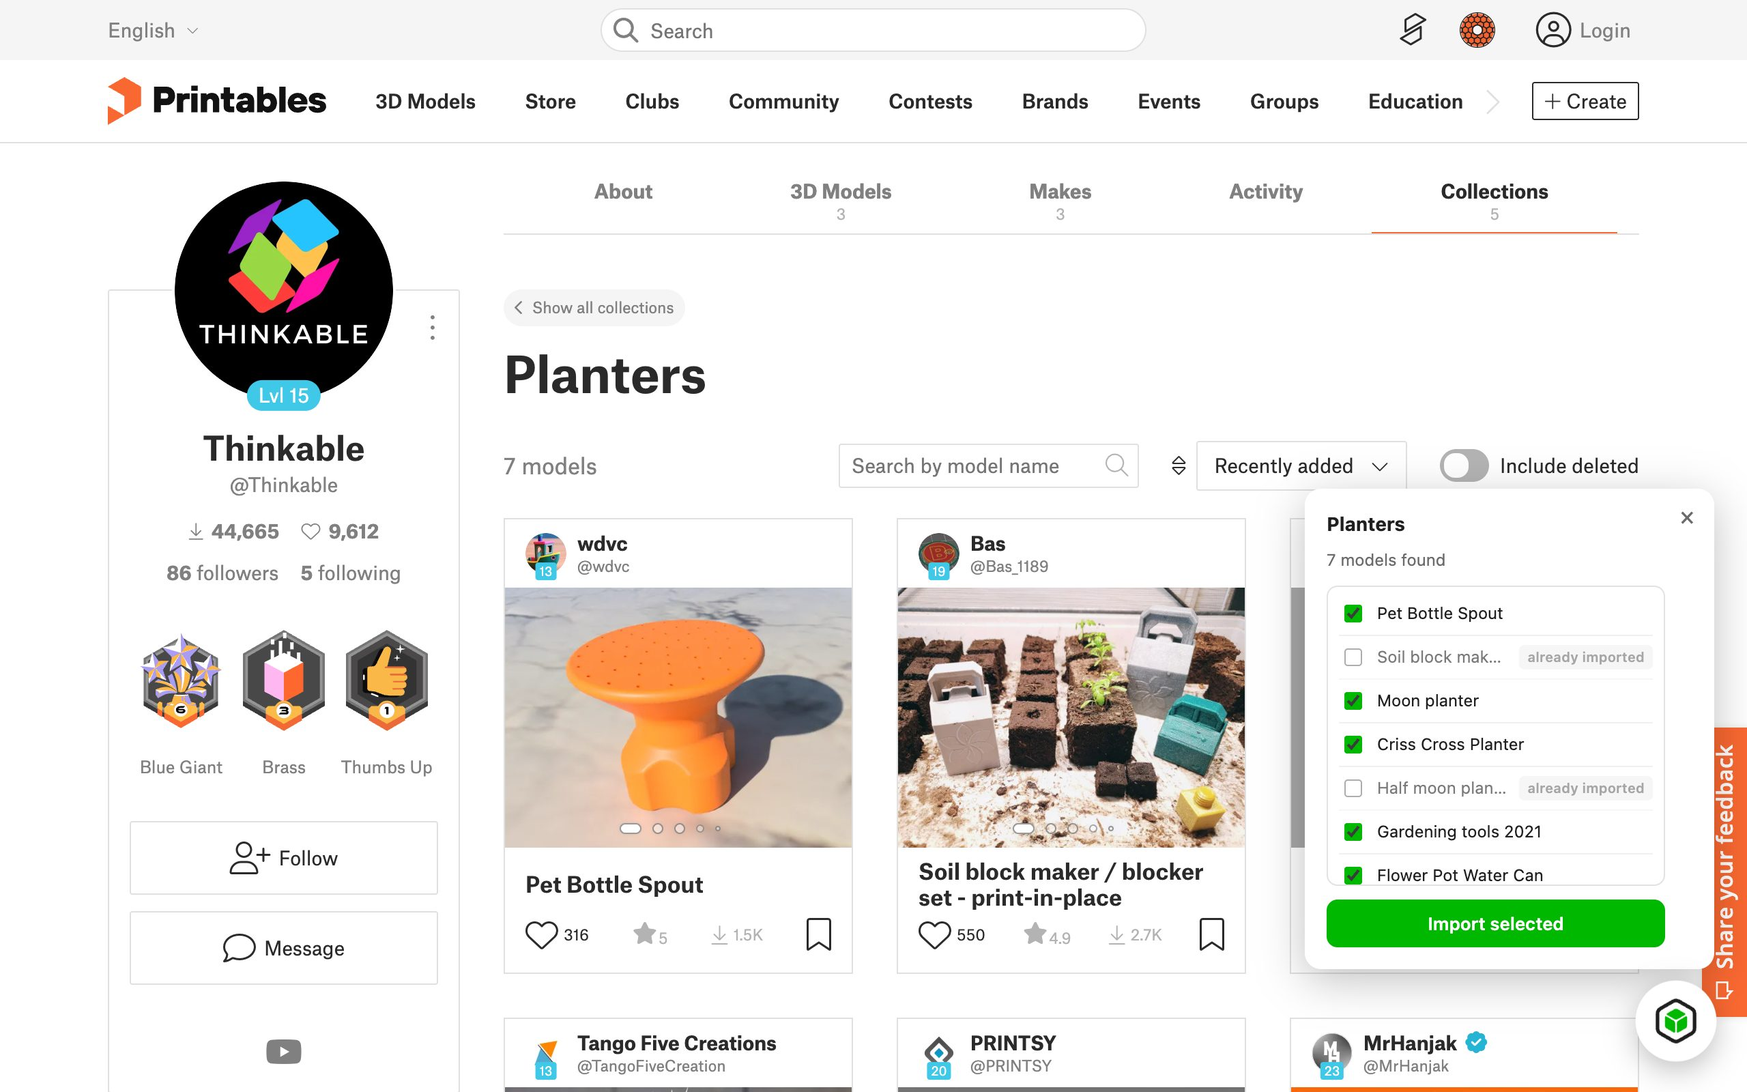
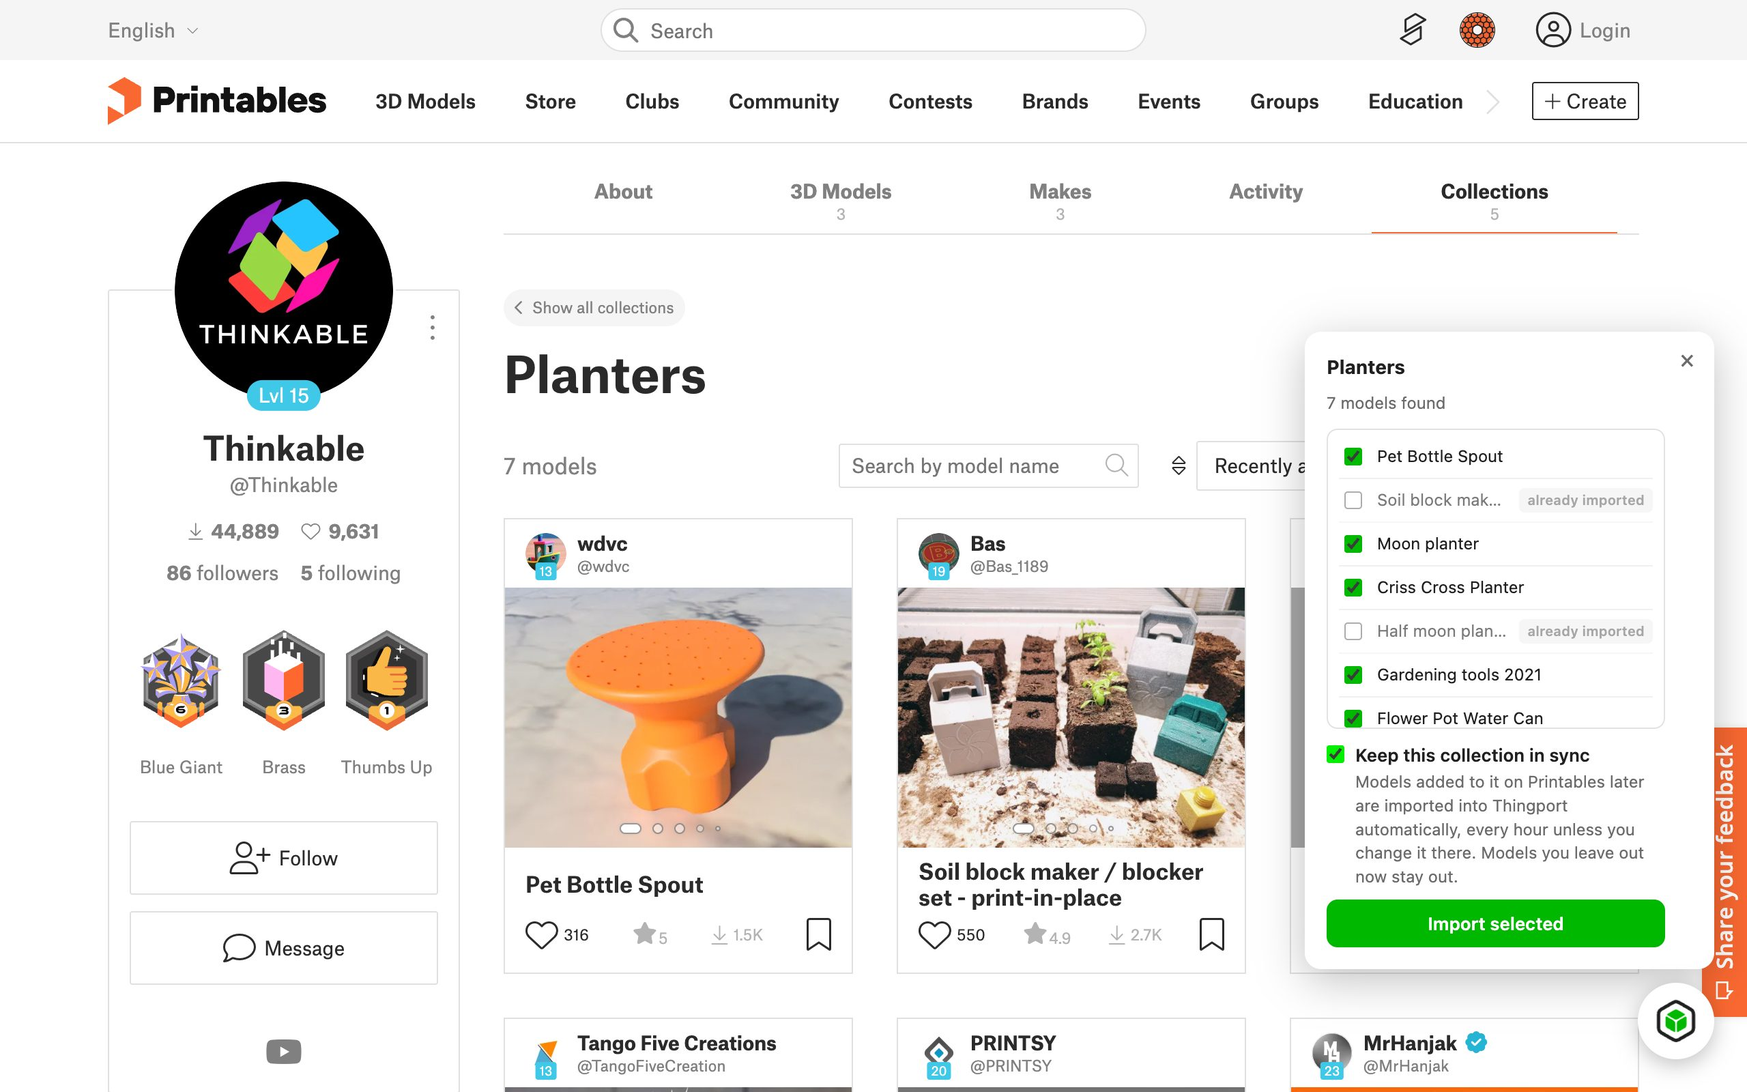
docs: add synced collections guide and showcase

diff --git a/extension/scripts/screenshots.ts b/extension/scripts/screenshots.ts
@@ -9,7 +9,8 @@
 //   npm run screenshots -- --makerworld=https://makerworld.com/en/models/123 --printables=...
 //
 // The collection shots use fixed collections, changeable with --printables-collection=<url> and
-// --makerworld-collection=<url>.
+// --makerworld-collection=<url>. --only=<names> refreshes just those shots, e.g.
+// --only=collection-printables,collection-makerworld.
 //
 // Needs Playwright's Chromium once: `npx playwright install chromium`.
 
@@ -85,6 +86,8 @@ function startMockInstance(state: MockState): Promise<{ url: string; close: () =
         return json(state.batch ?? { title: null, entries: [] });
       case "GET /api/collections":
         return json(collections);
+      case "GET /api/collection-sync":
+        return json({ supported: true, sync: null });
       case "POST /api/import":
         return json({ id: "demo-imported", title: state.inspectTitle, import_outcome: "created", thumb_url: null });
       // No slicer, so MakerWorld pages don't add their "Download normalized" button.
@@ -110,6 +113,12 @@ function argValue(name: string): string | undefined {
   return process.argv.find((arg) => arg.startsWith(prefix))?.slice(prefix.length);
 }
 
+const ONLY = argValue("only")?.split(",").filter(Boolean) ?? [];
+
+function wanted(...files: string[]): boolean {
+  return !ONLY.length || files.some((file) => ONLY.includes(file.replace(/\.\w+$/, "")));
+}
+
 async function launch(mockPort: number): Promise<{ context: BrowserContext; worker: Worker; extensionId: string }> {
   const userDataDir = path.join(os.tmpdir(), `thingport-grab-screenshots-${process.pid}`);
   const context = await chromium.launchPersistentContext(userDataDir, {
@@ -133,7 +142,10 @@ async function dismissBanners(page: Page): Promise<void> {
   const button = page
     .getByRole("button", { name: /^(accept( all)?( cookies)?|allow all|agree|i agree|got it|ok)$/i })
     .first();
-  if (await button.isVisible().catch(() => false)) await button.click({ timeout: 2000 }).catch(() => undefined);
+  // Through the DOM: Grab's own button can sit on top of it.
+  if (await button.isVisible().catch(() => false)) {
+    await button.evaluate((el) => (el as HTMLElement).click()).catch(() => undefined);
+  }
 }
 
 async function openPage(page: Page, url: string): Promise<void> {
@@ -218,6 +230,7 @@ async function screenshotPopup(
   file: string,
   colorScheme: "light" | "dark",
 ): Promise<void> {
+  if (!wanted(file)) return;
   const page = await context.newPage();
   await page.emulateMedia({ colorScheme });
   await page.setViewportSize({ width: POPUP_WIDTH, height: 600 });
@@ -228,12 +241,15 @@ async function screenshotPopup(
 }
 
 async function screenshotViewport(page: Page, file: string): Promise<void> {
+  if (!wanted(file)) return;
+  // Some cookie banners only show up after a while.
+  await dismissBanners(page);
   await page.waitForTimeout(1500);
   await page.screenshot({ path: path.join(OUT_DIR, file), type: "jpeg", quality: 82 });
 }
 
 async function main(): Promise<void> {
-  await rm(OUT_DIR, { recursive: true, force: true });
+  if (!ONLY.length) await rm(OUT_DIR, { recursive: true, force: true });
   await mkdir(OUT_DIR, { recursive: true });
   const mockState: MockState = { inspectTitle: null, batch: null };
   const instance = await startMockInstance(mockState);
@@ -245,9 +261,12 @@ async function main(): Promise<void> {
   try {
     await screenshotPopup(context, extensionId, "popup-setup.png", "light");
 
+    const modelShots =
+      wanted("setup-dialog-makerworld", "popup-connected", "popup-connected-dark") ||
+      PROVIDERS.some((p) => wanted(`panel-${p.name}`, `imported-${p.name}`));
     const models = new Map<ProviderName, ModelInfo>();
     const recentModels: ModelInfo[] = [];
-    for (const provider of PROVIDERS) {
+    for (const provider of modelShots ? PROVIDERS : []) {
       const urls = await findModelUrls(page, provider, provider.name === "thingiverse" ? 1 : 2);
       for (const url of urls) {
         await openPage(page, url);
@@ -258,10 +277,12 @@ async function main(): Promise<void> {
       }
     }
 
-    await openPage(page, models.get("makerworld")!.url);
-    await page.locator(".tg-fab--inactive").click();
-    await page.locator(".tg-modal").waitFor();
-    await screenshotViewport(page, "setup-dialog-makerworld.jpg");
+    if (wanted("setup-dialog-makerworld")) {
+      await openPage(page, models.get("makerworld")!.url);
+      await page.locator(".tg-fab--inactive").click();
+      await page.locator(".tg-modal").waitFor();
+      await screenshotViewport(page, "setup-dialog-makerworld.jpg");
+    }
 
     const recent = await Promise.all(
       recentModels.slice(0, 5).map(async (model, i) => ({
@@ -281,7 +302,8 @@ async function main(): Promise<void> {
     await screenshotPopup(context, extensionId, "popup-connected.png", "light");
     await screenshotPopup(context, extensionId, "popup-connected-dark.png", "dark");
 
-    for (const provider of PROVIDERS) {
+    for (const provider of PROVIDERS.filter((p) => models.has(p.name))) {
+      if (!wanted(`panel-${provider.name}`, `imported-${provider.name}`)) continue;
       const model = models.get(provider.name)!;
       mockState.inspectTitle = model.title;
       await openPage(page, model.url);
@@ -301,23 +323,30 @@ async function main(): Promise<void> {
       }
     }
 
-    const printablesCollection = argValue("printables-collection") ?? PRINTABLES_COLLECTION;
-    await openPage(page, printablesCollection);
-    mockState.batch = await readPrintablesCollection(page);
-    console.log(`Printables collection: ${printablesCollection} -- ${mockState.batch.entries.length} models`);
-    await page.locator(".tg-fab:not(.tg-fab--inactive)").click();
-    await page.locator('.tg-panel [data-action="import"]').waitFor({ timeout: 20000 });
-    await screenshotViewport(page, "collection-printables.jpg");
+    // The sync box is shown ticked, so the shots show what it's for.
+    if (wanted("collection-printables")) {
+      const printablesCollection = argValue("printables-collection") ?? PRINTABLES_COLLECTION;
+      await openPage(page, printablesCollection);
+      mockState.batch = await readPrintablesCollection(page);
+      console.log(`Printables collection: ${printablesCollection} -- ${mockState.batch.entries.length} models`);
+      await page.locator(".tg-fab:not(.tg-fab--inactive)").click();
+      await page.locator('.tg-panel [data-action="import"]').waitFor({ timeout: 20000 });
+      await page.locator("#tg-sync").check();
+      await screenshotViewport(page, "collection-printables.jpg");
+    }
 
     // The panel comes up once the whole collection has been scrolled through.
-    const makerworldCollection = argValue("makerworld-collection") ?? MAKERWORLD_COLLECTION;
-    await openPage(page, makerworldCollection);
-    console.log(`MakerWorld collection: ${makerworldCollection}`);
-    await page.locator(".tg-fab:not(.tg-fab--inactive)").click();
-    await page.locator('.tg-panel [data-action="start"]').waitFor({ timeout: 180000 });
-    await page.locator("#tg-step-delay").selectOption("30000");
-    await page.evaluate(() => window.scrollTo(0, 0));
-    await screenshotViewport(page, "collection-makerworld.jpg");
+    if (wanted("collection-makerworld")) {
+      const makerworldCollection = argValue("makerworld-collection") ?? MAKERWORLD_COLLECTION;
+      await openPage(page, makerworldCollection);
+      console.log(`MakerWorld collection: ${makerworldCollection}`);
+      await page.locator(".tg-fab:not(.tg-fab--inactive)").click();
+      await page.locator('.tg-panel [data-action="start"]').waitFor({ timeout: 180000 });
+      await page.locator("#tg-step-delay").selectOption("30000");
+      await page.locator("#tg-sync").check();
+      await page.evaluate(() => window.scrollTo(0, 0));
+      await screenshotViewport(page, "collection-makerworld.jpg");
+    }
 
     console.log(`Screenshots written to ${path.relative(process.cwd(), OUT_DIR)}/`);
   } finally {

diff --git a/docs/guides/synced-collections.md b/docs/guides/synced-collections.md
@@ -1,0 +1,96 @@
+# Synced collections
+
+A synced collection follows a collection on MakerWorld, Printables or Thingiverse. When a model is added to it there,
+Thingport imports that model into the matching Thingport collection on its own, without you visiting the page again.
+
+<picture>
+  <source media="(prefers-color-scheme: dark)" srcset="../assets/collection-sync-dark.gif">
+  <img src="../assets/collection-sync-light.gif" alt="Models flowing from a MakerWorld, Printables or Thingiverse collection, through Thingport, into a synced collection">
+</picture>
+
+## Why sync a collection
+
+- **Keep collecting where you already do.** Save models to a collection on MakerWorld, Printables or Thingiverse as you
+  browse, even from your phone, and they turn up in your library later.
+- **Follow other people's collections.** Sync a designer's or a friend's public collection, and get each model they
+  add to it.
+- **A real copy of everything.** Each new model is imported with its files, photos, description, tags and author, so
+  it's still yours if the original page goes away.
+- **Nothing to remember.** Thingport checks the collection on a schedule and sends a notification saying what came in.
+- **Nothing is ever deleted.** Sync only adds. Removing a model from the provider's collection doesn't remove it from
+  Thingport.
+
+## Before you start
+
+- Install [Thingport Grab](../../extension/README.md), the browser extension, and connect it to your Thingport. Only
+  Grab can turn sync on, because it has just seen which models the collection holds.
+- Connect the provider under **Configuration → Providers** where it needs it (see
+  [provider setup](../PROVIDER_SETUP.md)). Printables needs nothing. MakerWorld needs your session cookie to import
+  models, and to read a private collection. Thingiverse needs an access token.
+
+## Turn sync on
+
+1. Open the collection's page on MakerWorld, Printables or Thingiverse. A Thingiverse user's **Likes** page works too.
+2. Click the Thingport Grab button in the bottom-right corner. The panel lists the models in the collection.
+3. Tick **Keep this collection in sync** (**Keep these likes in sync** on a Likes page). It's off by default.
+4. Pick the models to import now and click **Import selected** (**Start import** on MakerWorld).
+
+![Thingport Grab on a Printables collection, with Keep this collection in sync ticked](../../extension/docs/screenshots/collection-printables.jpg)
+
+The models already in the collection are imported now, as with any collection import. The ones you leave unticked stay
+out: sync only picks up models added **after** you turn it on.
+
+Already imported the collection before? Open its page again, open the panel and tick the box. The panel says
+everything is already in your library, and **Save** turns sync on.
+
+## Find it in Thingport
+
+A synced collection's tile on the **Collections** page shows the provider's logo with a green tick.
+
+![The Collections page, with synced collections marked by their provider's logo](../../frontend/src/assets/screenshots/05_collections.png)
+
+Open the collection and click the same logo above its models, or choose **⋮ → Sync configuration**, to see how it's
+linked:
+
+![A synced collection's sync configuration, Overview section](../../frontend/src/assets/screenshots/12_collection_sync.png)
+
+- **Overview** shows the chain from the provider's collection to yours, when it was last checked and when the next
+  check is due, and a link to the collection on the provider's site. **Sync now** checks it right away. **Stop
+  syncing** unlinks it.
+- **Settings** sets how often it's checked: every hour, 6 hours or 24 hours. For MakerWorld it also sets which print
+  profiles each new model brings: the default one, the designer's, or all of them, community ones included.
+
+## How it works
+
+- **On a schedule.** Each synced collection is checked on its own interval, every hour unless you change it. A check
+  compares the provider's collection with the models Thingport has already seen there.
+- **New models only.** A model that's already in your library is just added to the collection. The rest are queued and
+  imported one at a time, a minute apart, so the provider isn't flooded with requests. You get a notification when
+  they're in.
+- **Seen once, decided once.** A model Thingport has seen in the collection is never brought back by the sync, whether
+  you left it unticked or deleted it from your library later.
+- **Renames are fine.** The link follows the provider's collection id, so renaming the collection on either side keeps
+  it synced.
+- **One to one.** A provider collection syncs with one Thingport collection, and the other way round. If a collection
+  with the same name already follows another source, the new one gets its own name, such as "Things (MakerWorld)".
+- **Rate limits pause it.** If the provider stops the imports, for example with a MakerWorld CAPTCHA or daily download
+  limit, the remaining models wait, paused, in **Administration → Import queue** until you start them again.
+- **Deleted collections.** If the provider's collection can't be found on two checks in a row, the Thingport collection
+  is unsynced and you get a notification. Its models stay. Deleting the Thingport collection removes the sync with it.
+- **Sync now** is available again 5 minutes after the last check. Its notification also tells you when there was
+  nothing new.
+
+## Turn sync off
+
+Either untick the box in Thingport Grab on the collection's page and save, or use **Stop syncing** in the collection's
+sync configuration. The collection and its models stay in Thingport. You can turn sync on again from Grab at any time.
+
+## For admins
+
+Two optional settings, added to the `backend` service's `environment` in `docker-compose.yml`:
+
+- `COLLECTION_SYNC_ENABLED=false` turns off the scheduled checks for every user. **Sync now** still works.
+- `COLLECTION_SYNC_ITEM_DELAY_MS` sets the pause between the models a sync imports, in milliseconds. The default is
+  `60000`, one minute.
+
+Checks run one collection at a time across all users, since they all reach the providers from the same server.

diff --git a/README.md b/README.md
@@ -66,6 +66,11 @@ Instead of having your collection scattered across different websites and your f
     <td width="33%"><a href="extension/docs/screenshots/panel-thingiverse.jpg" target="_blank"><img src="extension/docs/screenshots/panel-thingiverse.jpg" width="100%" alt="Thingport Grab on Thingiverse"></a><br><sub><b>Thingport Grab — Thingiverse</b></sub></td>
     <td width="33%"><a href="extension/docs/screenshots/panel-makerworld.jpg" target="_blank"><img src="extension/docs/screenshots/panel-makerworld.jpg" width="100%" alt="Thingport Grab on MakerWorld"></a><br><sub><b>Thingport Grab — MakerWorld</b></sub></td>
   </tr>
+  <tr>
+    <td width="33%"><a href="frontend/src/assets/screenshots/12_collection_sync.png" target="_blank"><img src="frontend/src/assets/screenshots/12_collection_sync.png" width="100%" alt="A synced collection's sync configuration"></a><br><sub><b>Synced Collection</b></sub></td>
+    <td width="33%"><a href="extension/docs/screenshots/collection-makerworld.jpg" target="_blank"><img src="extension/docs/screenshots/collection-makerworld.jpg" width="100%" alt="Thingport Grab syncing a MakerWorld collection"></a><br><sub><b>Thingport Grab — Sync a Collection</b></sub></td>
+    <td width="33%"></td>
+  </tr>
 </table>
 
 ## Installation
@@ -259,7 +264,7 @@ out as the backend's user, so `PUID`/`PGID` need write access to the folder. The
 
 ## Features
 
-- 🌐 **Import from MakerWorld, Printables and Thingiverse** — paste a link, or use the Thingport Grab browser extension. Whole collections, likes and MakerWorld print profiles come across with their title, description, tags, photos and author. Big imports run in the background and notify you when they finish, and a model you already have is never imported twice. Synced collections pick up models added to a provider collection later, as often as every hour.
+- 🌐 **Import from MakerWorld, Printables and Thingiverse** — paste a link, or use the Thingport Grab browser extension. Whole collections, likes and MakerWorld print profiles come across with their title, description, tags, photos and author. Big imports run in the background and notify you when they finish, and a model you already have is never imported twice. [Synced collections](docs/guides/synced-collections.md) pick up models added to a provider collection later, as often as every hour.
 - 📂 **Bring your existing library** — upload STL, 3MF, STEP, OBJ and LightBurn files, whole folder trees or ZIPs from the browser, and your folders come across as folders. Choose whether each file is a model, or each folder is one model with its images as photos and its manuals and notes attached. See [how to bring in your library](docs/guides/existing-library.md).
 - 📥 **Consume folder** — for big libraries and NAS shares: mount a folder, copy your files, folder trees and ZIPs into it, and Thingport imports everything and empties it, with a notification once it's done. Anything it can't import is set aside, never lost.
 - 🧊 **3D previews** — STL, 3MF, OBJ and STEP in the browser, with a thumbnail for every plate of a multi-plate 3MF. Very complex models can be simplified for the preview only.
@@ -275,6 +280,18 @@ out as the backend's user, so `PUID`/`PGID` need write access to the folder. The
 - 👥 **Multi-user** — a separate library per person, open or invite-only registration, optional email verification and captcha, admin logs, and an update check that tells you when new Thingport images are out.
 - 🌍 **Light and dark themes**, in English and Lithuanian.
 - 🐳 **Self-hosted** — runs anywhere Docker does, from a NAS to a spare PC.
+
+## Synced Collections
+
+Link a MakerWorld, Printables or Thingiverse collection to Thingport once, with one tick in Thingport Grab, and every
+model added to it later is imported into your library on its own. Thingport checks it every hour, 6 hours or 24 hours,
+imports new models one at a time and sends a notification saying what came in. Sync only ever adds: nothing is deleted
+on either side. See the **[synced collections guide](docs/guides/synced-collections.md)**.
+
+<picture>
+  <source media="(prefers-color-scheme: dark)" srcset="docs/assets/collection-sync-dark.gif">
+  <img src="docs/assets/collection-sync-light.gif" width="600" alt="Models flowing from a MakerWorld, Printables or Thingiverse collection, through Thingport, into a synced collection">
+</picture>
 
 ## Companion Apps
 

diff --git a/web/src/content/blog/synced-collections.md b/web/src/content/blog/synced-collections.md
@@ -1,0 +1,59 @@
+---
+title: "Synced collections: your MakerWorld, Printables and Thingiverse collections, kept up to date"
+description: "Link a collection on MakerWorld, Printables or Thingiverse to Thingport once, and models added to it later are imported on their own."
+pubDate: 2026-10-09
+tags: ["release", "import", "thingport-grab"]
+---
+
+Importing a collection into Thingport has always been a one-off: you get every model that's in it today. Save another
+model to that collection next week and you'd have to go back and import it again.
+
+**Synced collections fix that.** Link a MakerWorld, Printables or Thingiverse collection to Thingport once, and every
+model added to it from then on comes into your library by itself.
+
+<picture>
+  <source media="(prefers-color-scheme: dark)" srcset="../../../../docs/assets/collection-sync-dark.gif">
+  <img src="../../../../docs/assets/collection-sync-light.gif" alt="Models flowing from a MakerWorld, Printables or Thingiverse collection, through Thingport, into a synced collection">
+</picture>
+
+## Why it's useful
+
+- **Keep collecting where you already do.** Save models to a collection while you browse a site, even on your phone,
+  and they're in Thingport the next time you look.
+- **Follow other people's collections.** Sync a designer's or a friend's public collection, or a Thingiverse user's
+  likes, and get each model they add.
+- **A real copy, not a bookmark.** Each new model comes in with its files, photos, description, tags and author.
+
+## Turning it on
+
+Open the collection's page on MakerWorld, Printables or Thingiverse, open [Thingport Grab](/docs/grab/), and tick
+**Keep this collection in sync**. Pick the models you want now and import them as usual. Already imported the
+collection before? Tick the box and click **Save**.
+
+![Thingport Grab on a Printables collection, with Keep this collection in sync ticked](../../../../extension/docs/screenshots/collection-printables.jpg)
+
+## What happens next
+
+Thingport checks the collection every hour (or every 6 or 24 hours, if you'd rather) and imports what's new, one model
+at a time, a minute apart, so the provider's limits aren't hit. A notification tells you what came in.
+
+Synced collections show the provider's logo on the Collections page. Open one and click the logo to see its sync
+configuration: when it was last checked, when the next check is due, **Sync now**, **Stop syncing**, and settings such
+as which MakerWorld print profiles each new model brings.
+
+![A synced collection's sync configuration in Thingport](../../../../frontend/src/assets/screenshots/12_collection_sync.png)
+
+A few things it deliberately doesn't do:
+
+- **It never deletes.** A model removed from the provider's collection stays in Thingport.
+- **It doesn't bring things back.** Models you left out when you turned sync on, or deleted from your library later,
+  stay out.
+- **It doesn't break on renames.** Rename the collection on either side and it stays linked.
+
+## Get it
+
+Synced collections need the latest Thingport images and Thingport Grab 1.4.0 or newer, for Chrome, Edge and Firefox.
+Pull the new images with `docker compose pull && docker compose up -d`, and your browser updates Grab on its own.
+
+The [synced collections guide](/docs/guides/synced-collections/) covers the details: what each provider needs, how
+rate limits and deleted collections are handled, and the settings admins can change.

diff --git a/extension/README.md b/extension/README.md
@@ -214,6 +214,8 @@ extension can turn sync on, since it has just seen which models the collection h
 - To turn sync off, untick the box on the collection page, or use **Stop syncing** in the
   collection's sync configuration.
 
+The [synced collections guide](../docs/guides/synced-collections.md) walks through it end to end.
+
 ## Privacy
 
 Thingport Grab has no servers of its own and sends nothing to its developer or any third party --
